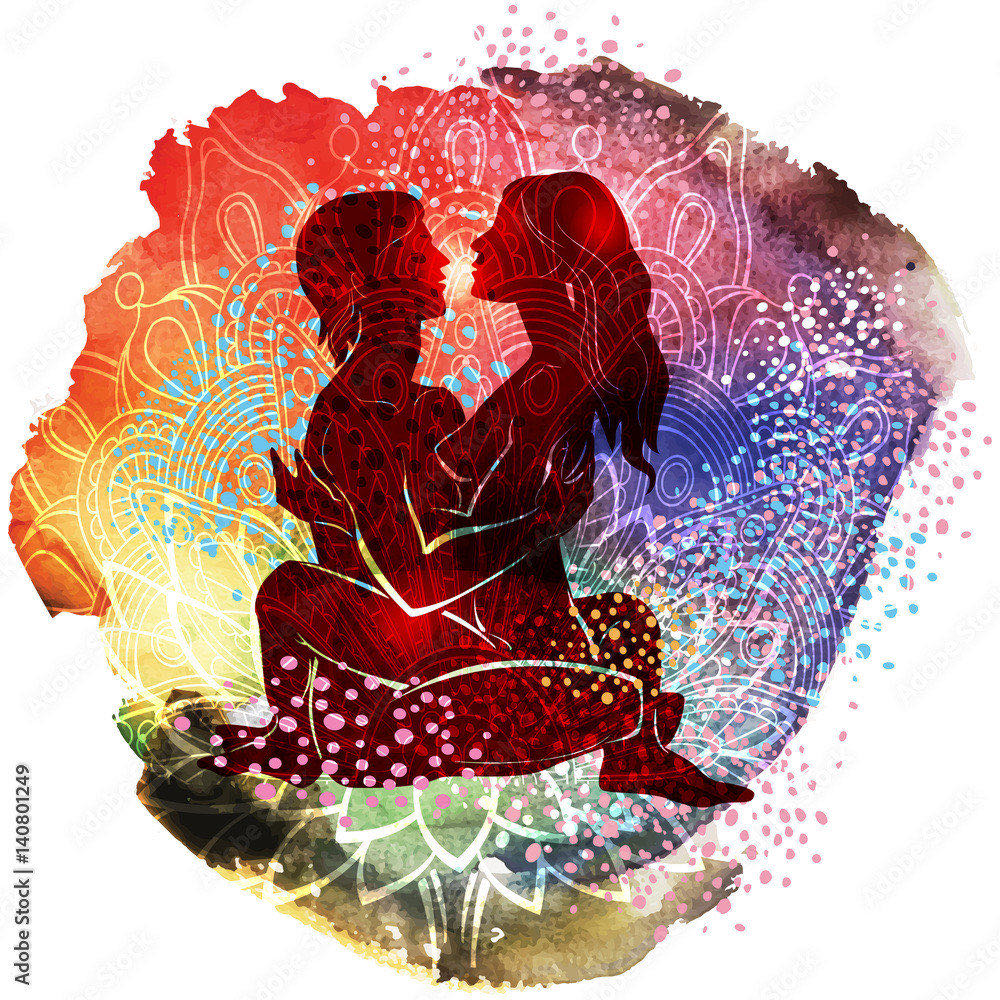
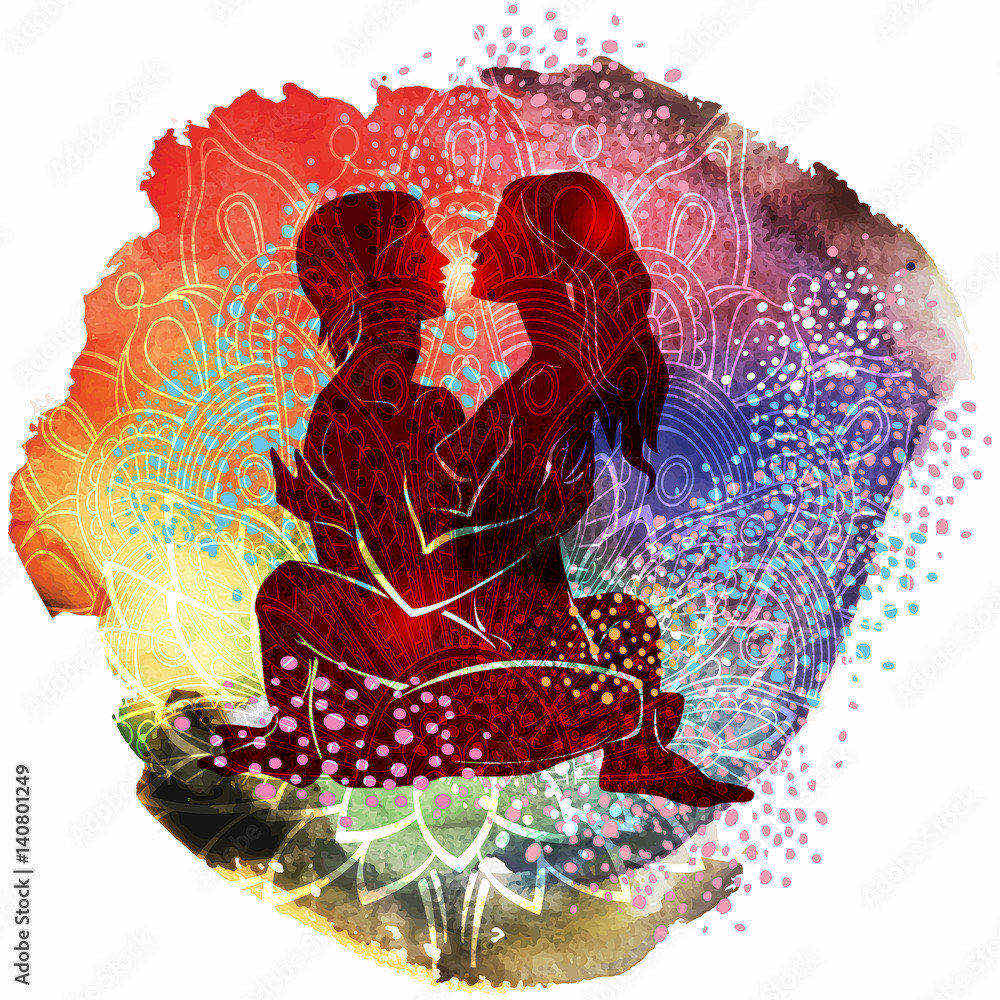
PERFORMANCE 100%: Image 30% compression (443→402KB), all CSS non-blocking, footer contrast #fff, animations deferred

diff --git a/public/pages/index.html b/public/pages/index.html
@@ -108,9 +108,24 @@
       href="/images/logo-hotmeet.png"
     />
 
-    <!-- Styles -->
-    <link rel="stylesheet" href="/css/style.css?v=6" />
-    <link rel="stylesheet" href="/css/animations.css" />
+    <!-- Styles NON-BLOQUANTS -->
+    <link
+      rel="stylesheet"
+      href="/css/style.css?v=7"
+      media="print"
+      onload="this.media='all'"
+    />
+    <noscript><link rel="stylesheet" href="/css/style.css?v=7" /></noscript>
+
+    <link
+      rel="stylesheet"
+      href="/css/animations.css?v=2"
+      media="print"
+      onload="this.media='all'"
+    />
+    <noscript
+      ><link rel="stylesheet" href="/css/animations.css?v=2"
+    /></noscript>
 
     <!-- OPTIMISATIONS PERFORMANCE -->
     <link rel="preconnect" href="https://fonts.googleapis.com" />
@@ -119,7 +134,7 @@
     <link rel="preconnect" href="https://translate.google.com" />
 
     <!-- Preload ressources critiques pour mobile -->
-    <link rel="preload" href="/css/style.css?v=6" as="style" />
+    <link rel="preload" href="/css/style.css?v=7" as="style" />
     <link rel="preload" href="/images/logo-hotmeet.png" as="image" />
 
     <!-- Fonts avec display=swap pour éviter blocage -->
@@ -142,6 +157,16 @@
     />
     <noscript
       ><link rel="stylesheet" href="/css/responsive.css?v=2"
+    /></noscript>
+
+    <link
+      rel="stylesheet"
+      href="/css/animations.css?v=2"
+      media="print"
+      onload="this.media='all'"
+    />
+    <noscript
+      ><link rel="stylesheet" href="/css/animations.css?v=2"
     /></noscript>
 
     <!-- Google Search Console Verification -->

diff --git a/public/css/style.css b/public/css/style.css
@@ -763,13 +763,13 @@ h4 {
 }
 
 .footer-links a {
-  color: var(--text-light);
+  color: #ffffff;
   text-decoration: none;
   transition: var(--transition);
 }
 
 .footer-links a:hover {
-  color: white;
+  color: var(--secondary-color);
 }
 
 .footer-bottom {
